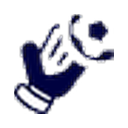
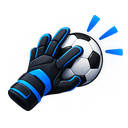
Il guantone: adesso ogni icona evento che l'app usa e' nuova
Era l'ultima che mancava. Nella tavola il rigore parato era disegnato col
fischietto, identico a calcio-inizio, e a ventun punti sullo schermo due icone
uguali sono due icone che non dicono niente.

L'originale arriva a parte e ha 853x707 di disegno, quindi di risoluzione ne
avanza: sulla tela finisce a 113x92, cioe' ridotta di sette volte. L'alone
bluastro intorno sta sotto la soglia di misura e non gonfia il riquadro, e alla
grandezza di schermo non si vede, ne' sul tema scuro ne' sul chiaro — provato
su tutti e due. Accanto allo scarpino dell'assist, che e' anche lui nero con
dettagli blu, sta in riga.

Restano vecchie tre icone: fuorigioco, gol-pareggio e porta-inviolata. Nessuna
delle tre e' usata da nessuna parte nell'app, quindi da qui in avanti tutto
quello che si vede e' disegno vero e non un ingrandimento.

Claude-Session: https://claude.ai/code/session_011w2uTqyT5XgiKaneuFqC14

diff --git a/sw.js b/sw.js
@@ -1,5 +1,5 @@
 /* Service worker — shell in cache, aggiornamento in background. */
-const VERSION = 'fcs-v4.2.25';
+const VERSION = 'fcs-v4.2.26';
 const SHELL = [
   './', './index.html', './manifest.webmanifest', './styles/app.css', './styles/logo.css', './styles/font.css', './design/tokens/tokens.css',
   // I caratteri stanno in casa: nella cache ci vanno, se no senza rete si vede

diff --git a/scripts/ritaglia-tavola-eventi.py b/scripts/ritaglia-tavola-eventi.py
@@ -14,7 +14,9 @@ Tre icone nella tavola non tornano e NON vengono scritte:
   - fuorigioco    disegnato con due cartellini, identico a espulsione; il
                   fuorigioco lo segnala la bandierina del guardalinee
   - rigore-parato disegnato col fischietto, identico a calcio-inizio; un rigore
-                  parato vuole il guantone
+                  parato vuole il guantone, ed e' arrivato a parte — il suo
+                  originale sta in media/icone-sorgenti/eventi/rigore-parato.png
+                  e questo script non lo tocca
   - espulsione    disegnato giallo+rosso, che pero' e' il DOPPIO GIALLO: quel
                   disegno finisce quindi su espulsione-x2, ed espulsione (il
                   rosso diretto, un cartellino solo) resta quella vecchia
